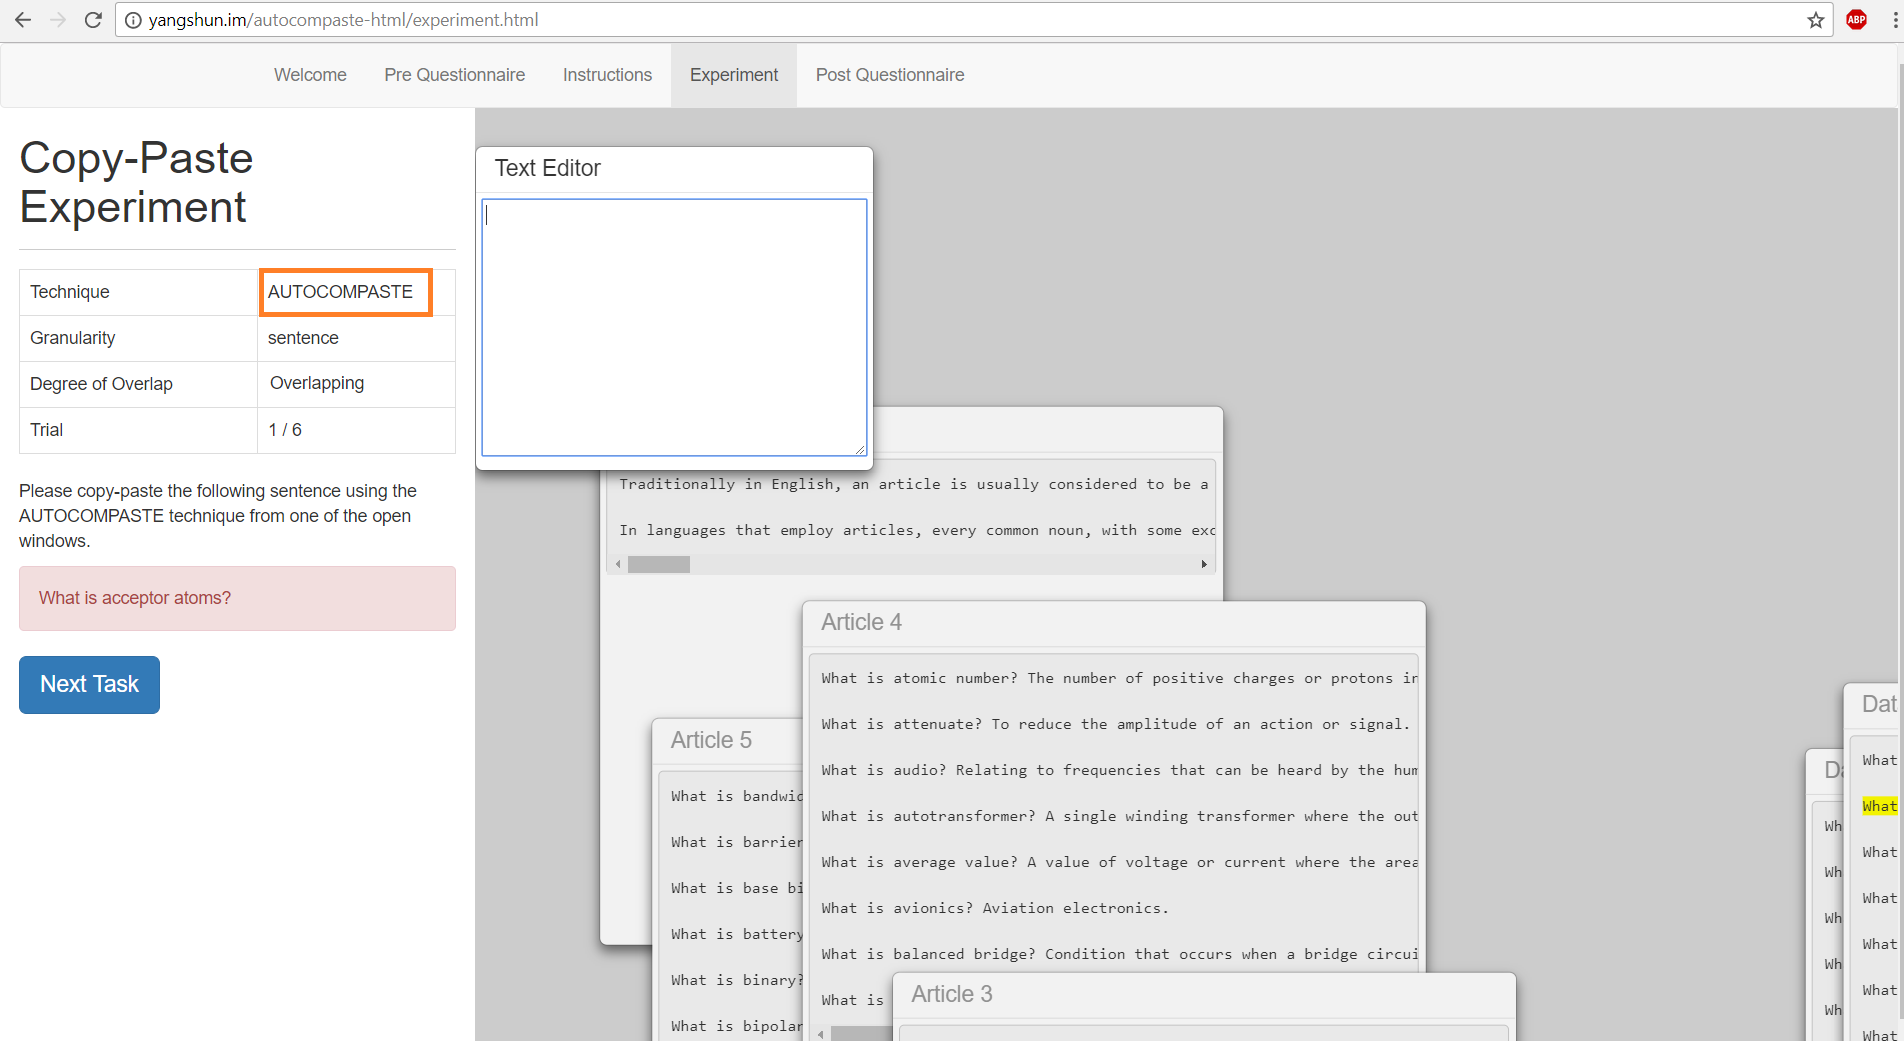
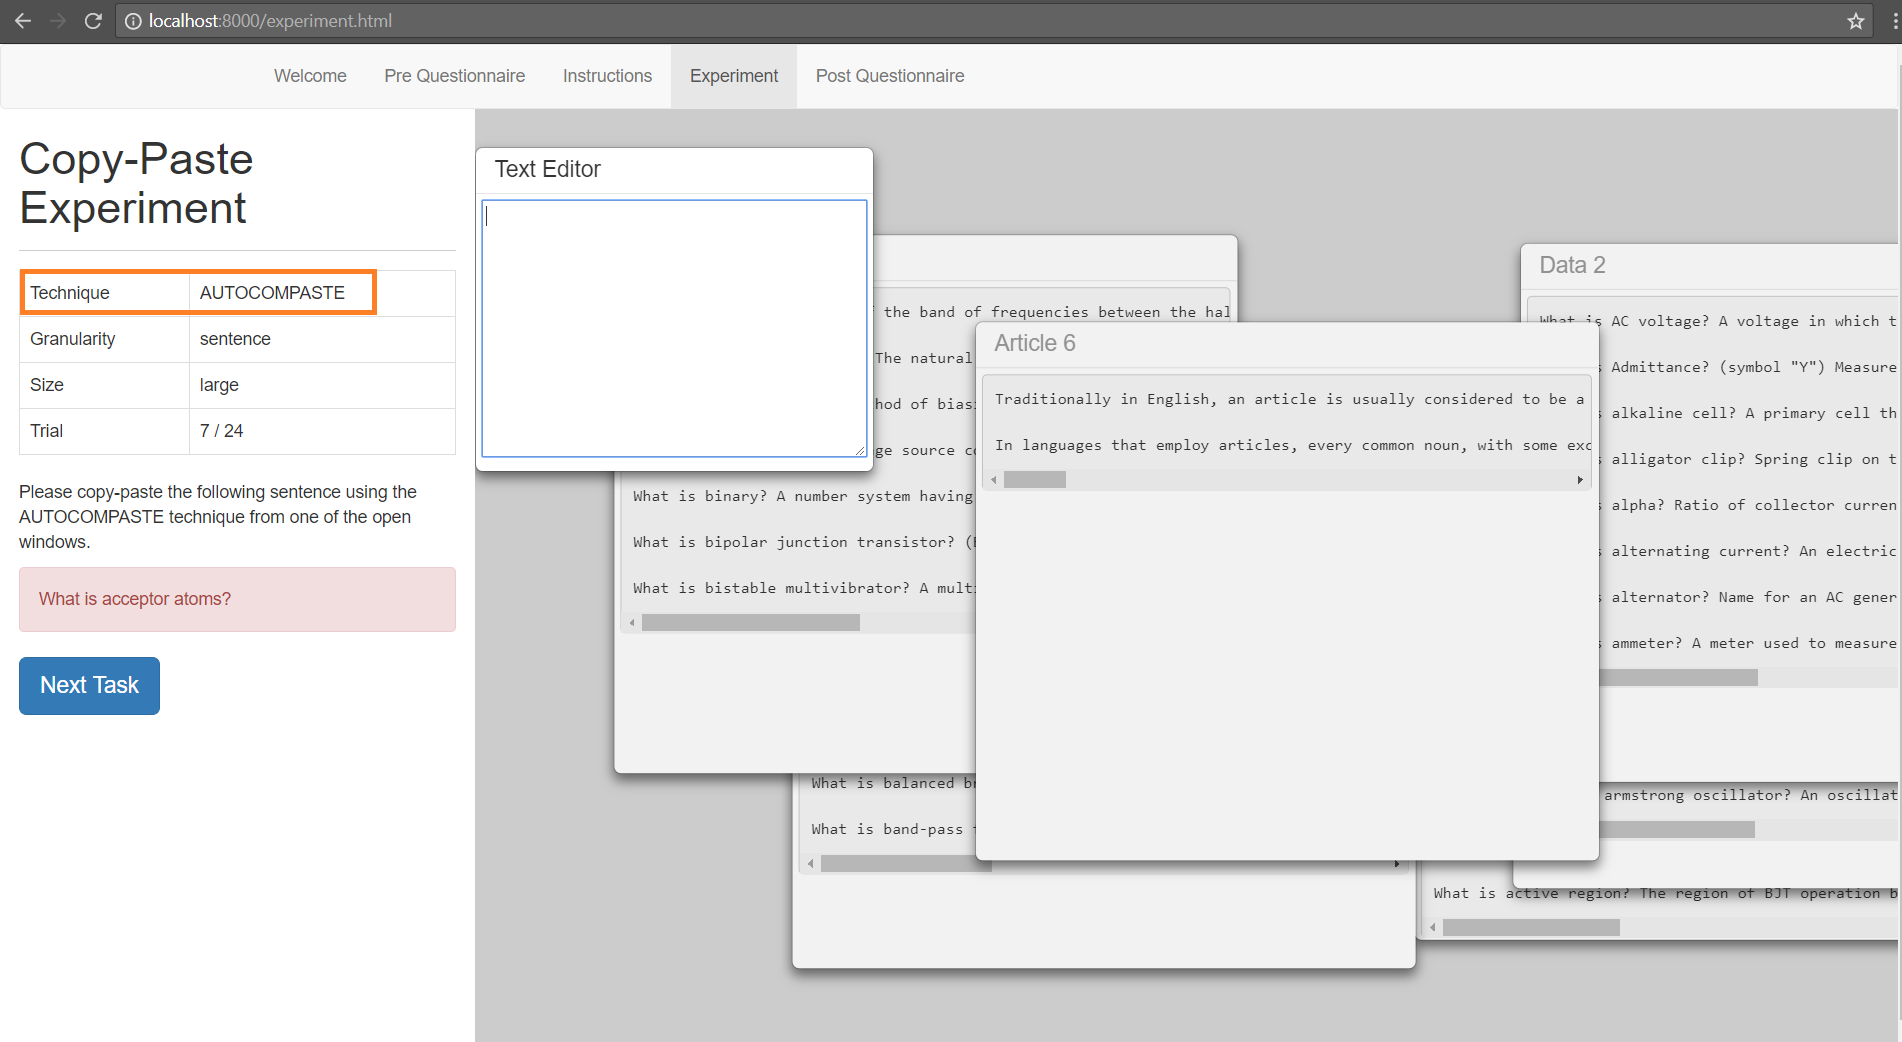
Change 3rd IV from overlapping/non-overlapping to window size

diff --git a/experiment.html b/experiment.html
@@ -46,8 +46,8 @@
                                 <td><span class="js-expt-granularity">Phrase</span></td>
                             </tr>
                             <tr>
-                                <td>Degree of Overlap</td>
-                                <td><span class="js-expt-overlap">Overlapping</span></td>
+                                <td>Size</td>
+                                <td><span class="js-expt-size">Small</span></td>
                             </tr>
                             <tr>
                                 <td>Trial</td>
@@ -81,7 +81,7 @@
             var trialsData;
             var currentTrial;
             var totalNumberOfTrials;
-            var headers = ['Participant id', 'Technique', 'Granularity', 'Degree of Overlap',
+            var headers = ['Participant id', 'Technique', 'Granularity', 'Size',
                             'Trial no', 'Stimuli', 'User Response', 'Trial Start Time',
                             'Trial End Time', 'Trial Time', 'Accuracy'];
             var trialData = [];
@@ -93,7 +93,7 @@
 
                     var technique = trialResult.technique;
                     var granularity = trialResult.granularity;
-                    var overlap = trialResult.overlap;
+                    var size = trialResult.size;
                     var trialNum = currentTrial;
                     var stimuli = trialResult.stimuli;
                     var userResponse = trialResult.user_response;
@@ -102,7 +102,7 @@
                     var trialDuration = trialResult.duration;
                     var accuracy = stimuli === userResponse ? 1 : 0;
 
-                    var row = [pid, technique, granularity, overlap, trialNum,
+                    var row = [pid, technique, granularity, size, trialNum,
                                 stimuli, userResponse, trialStartTime,
                                 trialEndTime, trialDuration, accuracy];
                     trialData.push(row);
@@ -123,7 +123,7 @@
                 switch(ACPToolKit.getCurrentParticipantId()) {
                     case 'P01':
                         $.get('data/experiment_p01.json', function (data) {
-                            // data = JSON.parse(data);
+                            data = JSON.parse(data);
                             trialsData = data.experiments;
                             currentTrial = 0;
                             totalNumberOfTrials = trialsData.length;
@@ -135,7 +135,7 @@
                         break;
                     case 'P02':
                         $.get('data/experiment_p02.json', function (data) {
-                            // data = JSON.parse(data);
+                            data = JSON.parse(data);
                             trialsData = data.experiments;
                             currentTrial = 0;
                             totalNumberOfTrials = trialsData.length;
@@ -147,7 +147,7 @@
                         break;
                     case 'P03':
                         $.get('data/experiment_p03.json', function (data) {
-                            // data = JSON.parse(data);
+                            data = JSON.parse(data);
                             trialsData = data.experiments;
                             currentTrial = 0;
                             totalNumberOfTrials = trialsData.length;
@@ -159,7 +159,55 @@
                         break;
                     case 'P04':
                         $.get('data/experiment_p04.json', function (data) {
-                            // data = JSON.parse(data);
+                            data = JSON.parse(data);
+                            trialsData = data.experiments;
+                            currentTrial = 0;
+                            totalNumberOfTrials = trialsData.length;
+                            $('.js-expt-num-trials').text(totalNumberOfTrials);
+                            trialData.push(headers);
+                            next();
+                            pid = ACPToolKit.getCurrentParticipantId();
+                        })
+                        break;
+                    case 'P05':
+                        $.get('data/experiment_p05.json', function (data) {
+                            data = JSON.parse(data);
+                            trialsData = data.experiments;
+                            currentTrial = 0;
+                            totalNumberOfTrials = trialsData.length;
+                            $('.js-expt-num-trials').text(totalNumberOfTrials);
+                            trialData.push(headers);
+                            next();
+                            pid = ACPToolKit.getCurrentParticipantId();
+                        })
+                        break;
+                    case 'P06':
+                        $.get('data/experiment_p06.json', function (data) {
+                            data = JSON.parse(data);
+                            trialsData = data.experiments;
+                            currentTrial = 0;
+                            totalNumberOfTrials = trialsData.length;
+                            $('.js-expt-num-trials').text(totalNumberOfTrials);
+                            trialData.push(headers);
+                            next();
+                            pid = ACPToolKit.getCurrentParticipantId();
+                        })
+                        break;
+                    case 'P07':
+                        $.get('data/experiment_p07.json', function (data) {
+                            data = JSON.parse(data);
+                            trialsData = data.experiments;
+                            currentTrial = 0;
+                            totalNumberOfTrials = trialsData.length;
+                            $('.js-expt-num-trials').text(totalNumberOfTrials);
+                            trialData.push(headers);
+                            next();
+                            pid = ACPToolKit.getCurrentParticipantId();
+                        })
+                        break;
+                    case 'P08':
+                        $.get('data/experiment_p08.json', function (data) {
+                            data = JSON.parse(data);
                             trialsData = data.experiments;
                             currentTrial = 0;
                             totalNumberOfTrials = trialsData.length;

diff --git a/js/autocompaste/interface.js b/js/autocompaste/interface.js
@@ -33,7 +33,7 @@ AutoComPaste.Interface = (function () {
   /**
    * The class constructor.
    */
-  function Interface (wm, engine, texts_json) {
+  function Interface (wm, engine, texts_json, windowSize) {
     /** Internal functions */
     this._showError = function _showerror() {
       document.getElementById('error-overlay').style.display = 'block';
@@ -125,7 +125,7 @@ AutoComPaste.Interface = (function () {
                               cols: 40
                             });
 
-        //  For ACP mode, engine is passed into the interface. 
+        //  For ACP mode, engine is passed into the interface.
         //  Initialize the interface with the engine.
         if (privates.engine) {
           for (var text_title in privates.texts) {
@@ -158,8 +158,15 @@ AutoComPaste.Interface = (function () {
     };
 
     this._createWindowForText = function _createWindowForText (text_title) {
-      
-      privates.wm.createWindow(text_title, 500, 400);
+      if (privates.windowSize == "small") {
+        privates.wm.createWindow(text_title, 250, 200);
+      }
+      if (privates.windowSize == "large") {
+        privates.wm.createWindow(text_title, 500, 400);
+      } else {
+        console.log("windowSize undefined, defaulting to 500x400")
+        privates.wm.createWindow(text_title, 500, 400);
+      }
       privates.wm.setWindowTitle(text_title, text_title);
       privates.wm.setWindowContent(text_title,
         $(document.createElement('pre'))
@@ -169,7 +176,7 @@ AutoComPaste.Interface = (function () {
 
       // Position the window randomly.
       //
-      // safety_bounds ensure that the window is at least some pixels within 
+      // safety_bounds ensure that the window is at least some pixels within
       // the boundaries of the display.
       var height_safety_bounds = privates.wm.getDisplayHeight()/1.5;
       var width_safety_bounds = privates.wm.getDisplayWidth()/5;
@@ -208,7 +215,7 @@ AutoComPaste.Interface = (function () {
         evs[i].apply(null, [event_data]);
       }
     };
-   
+
     /** Constructor */
     if (wm == undefined) {
       console.error("Interface: wm must be given");
@@ -229,7 +236,7 @@ AutoComPaste.Interface = (function () {
       console.error("Interface: texts_json must be of type String");
       return;
     }
-    
+
     console.log("Interface: starting using data url: " + texts_json);
 
     // Define private variables.
@@ -242,11 +249,12 @@ AutoComPaste.Interface = (function () {
     privates.events = { };
     privates.engine = engine;
     privates.wm = wm;
-    
+    privates.windowSize = windowSize;
+
     // Fetch all the texts.
     this._fetchTexts();
   }
 
   return Interface;
 
-}) (); 
+}) ();

diff --git a/instructions.html b/instructions.html
@@ -43,9 +43,9 @@
                     <br>
                     <p>The image above is taken from the experiment that you will be performing.</p>
                     <p>The orange area shows the technique that you will be using, either the AutoComPaste method, or the traditional (Ctrl-C, Ctrl-V) method to copy and paste the text in the text frames
-                      all around the page. The text frames will be placed either overlapping one another as seen in the image above, or the text frames will be placed without any overlaps.</p>
-                    <p>Based on the table on the left, you will either be using the AutoComPaste or the traditional (Ctrl-C, Ctrl-V) technique, and the text frames from which you will be copy and pasting
-                      text from will either be overlapping, or not overlapping.</p>
+                      all around the page. The window size of the text frames will either be large, as seen in the image above (500x400), or small (250x200).</p>
+                    <p>Based on the table on the left, you will either be using the AutoComPaste or the traditional (Ctrl-C, Ctrl-V) technique, and the window size of the text frames from which you will be copy and pasting
+                      text from will either be large, or small.</p>
                     <p>Here is a brief explanation of how the following methods copy and paste text:<p>
                     <ul>
                       <li>AutoComPaste: Type three characters or more in the text editor, and the text editor will show a dropdown list of possible sentences that contain the characters/sentence

diff --git a/js/ACPToolKit.js b/js/ACPToolKit.js
@@ -84,7 +84,7 @@ var ACPToolKit = (function () {
 
             $('.js-expt-technique').text(options.technique);
             $('.js-expt-granularity').text(options.granularity);
-            $('.js-expt-overlap').text(options.overlap);
+            $('.js-expt-size').text(options.size);
             $('.js-expt-stimuli').text(options.stimuli);
 
             // Clean up DOM
@@ -105,7 +105,7 @@ var ACPToolKit = (function () {
                     break;
             }
 
-            var iface = new AutoComPaste.Interface(wm, engine, data_file);
+            var iface = new AutoComPaste.Interface(wm, engine, data_file, options.size);
 
             // Highlight the relevant text.
             iface.addEventListener('loaded', function () {
